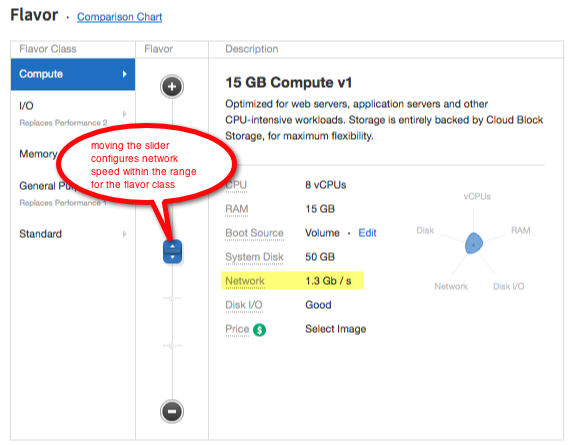
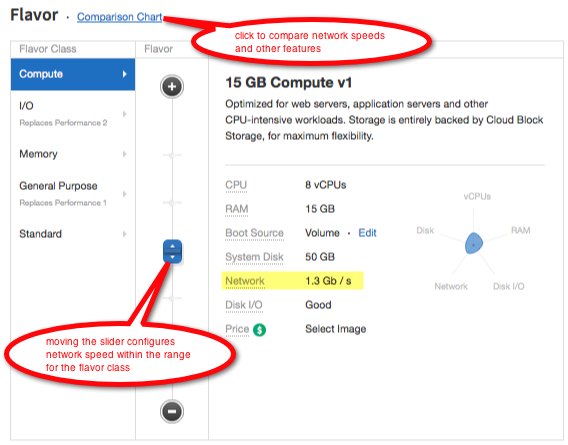
add pointer to Comparison Chart link

Changed region(s): [[0.0, 0.5843, 0.419, 0.8764], [0.0898, 0.2629, 0.4489, 0.5551], [0.2694, 0.0292, 0.7782, 0.1753]]

diff --git a/cloud-config/network/cloud-networks-product-concepts/network-cloud-servers.rst b/cloud-config/network/cloud-networks-product-concepts/network-cloud-servers.rst
@@ -34,10 +34,16 @@ within the range available to it.
    :alt: In the Cloud Control Panel, 
          use the slider to change network speed  
          and other characteristics.
+         For virtual cloud servers, the 
+         "Comparison Chart" link provides a detailed comparison of 
+         the configuration available for each flavor.
    
    *In the Cloud Control Panel, 
    use the slider to change network speed
-   and other characteristics.*
+   and other characteristics. 
+   For virtual cloud servers, the 
+   "Comparison Chart" link provides a detailed comparison of 
+   the configuration available for each flavor.*
 
 You can read more about how choosing a flavor class influences 
 your cloud server's configuration at 
